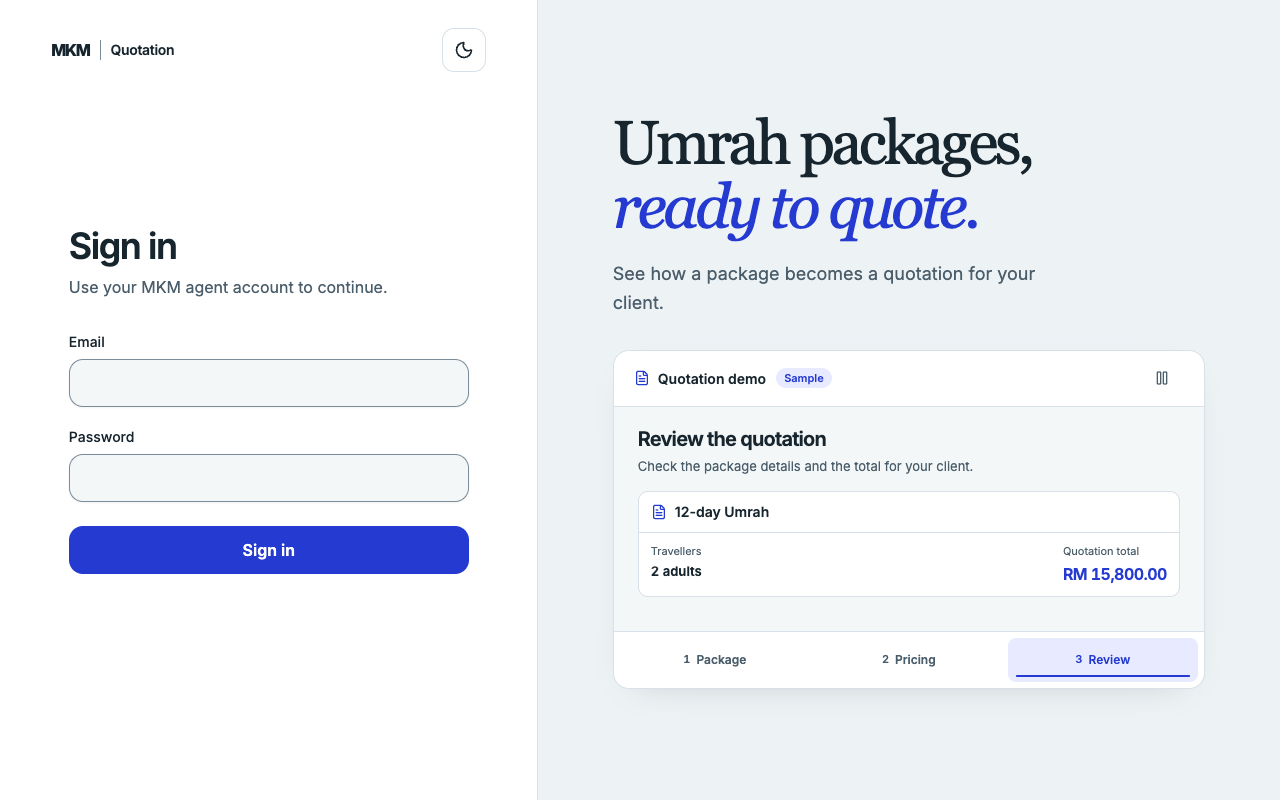
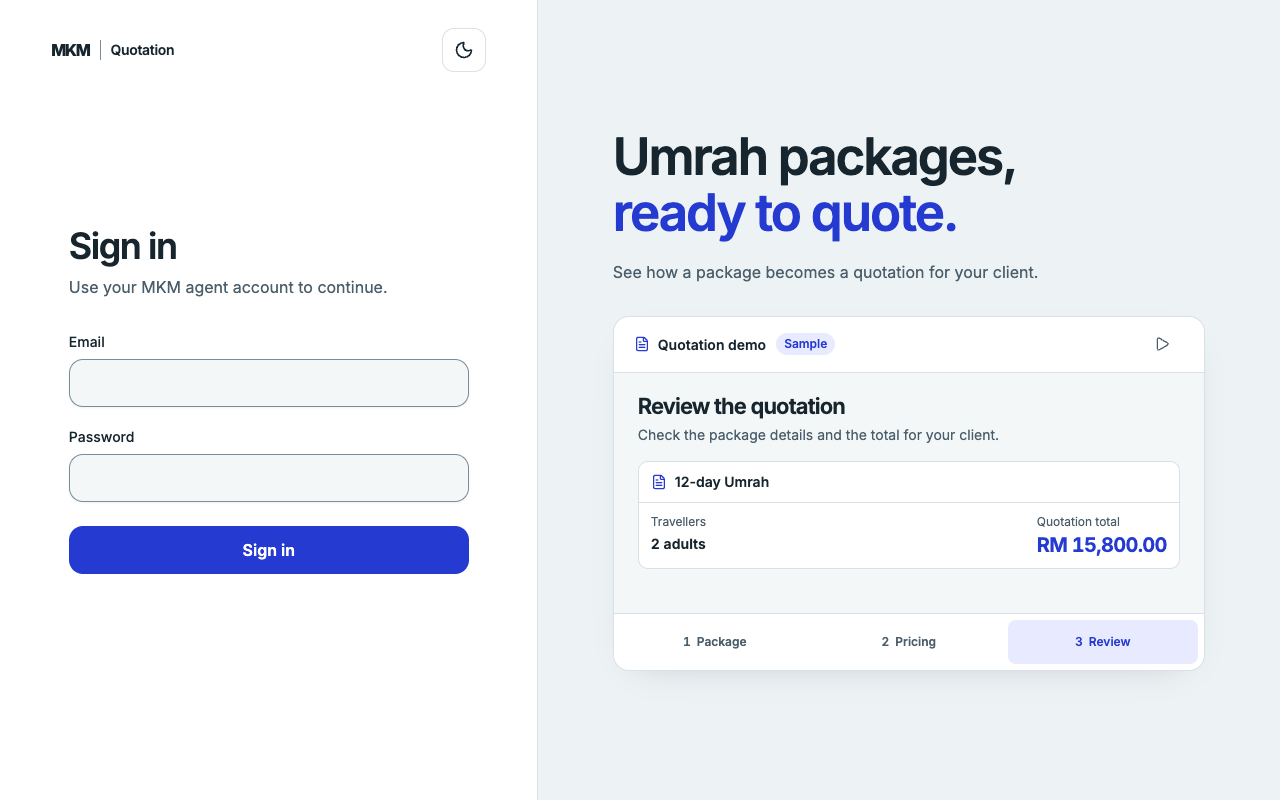
docs(auth): capture the revised sign-in typography

diff --git a/docs/evidence/issue-109/README.md b/docs/evidence/issue-109/README.md
@@ -1,12 +1,18 @@
 # MKM sign-in verification
 
-## Animated quotation demo
+## Right-side typography
 
-The production build of `f3f9d5e8081d2bb260bdf2b4177e736d7ff820da` ran at `http://127.0.0.1:3509/`. The demo uses a fictional 12-day Umrah package to show package selection, room pricing, and quotation review. The page uses MKM's shared blue palette in light and dark mode.
+The production build of `6e5b26f8343c5a240978c878a426ef39ee78508a` ran at `http://127.0.0.1:3509/`. The headline uses the app's Inter font. The demo gives more weight to the stage heading and the quotation total, and uses larger supporting text and detail labels.
 
 ![The sign-in screen cycles through the three quotation demo steps](quotation-demo.gif)
 
-[Desktop review](desktop-review.png) · [Phone pricing in dark mode](phone-pricing-dark.png) · [Verification results](demo-verification.json)
+[Before on desktop](before-typography.png) · [After on desktop](desktop-review.png) · [After on a phone in dark mode](phone-pricing-dark.png) · [Typography verification](typography-verification.json)
+
+Chromium checked all three demo steps in both themes at 320, 390, 768, 1,024, 1,280, and 1,440 CSS pixels. The demo kept the same height between steps at each width. Autoplay went through all three steps and showed the RM 15,800.00 total.
+
+## Animated quotation demo
+
+The palette and playback verification ran against production build `f3f9d5e8081d2bb260bdf2b4177e736d7ff820da` at `http://127.0.0.1:3509/`. The demo uses a fictional 12-day Umrah package to show package selection, room pricing, and quotation review. [Verification results](demo-verification.json)
 
 Chromium checked the rendered colors of the sign-in button, headline accent, and selected demo step in both themes. It also verified autoplay, pause and resume, manual step selection, and the RM 15,800.00 total. On a narrow phone, playback waited until the demo entered the viewport. With reduced motion, the demo started paused and manual step changes appeared immediately.
 
